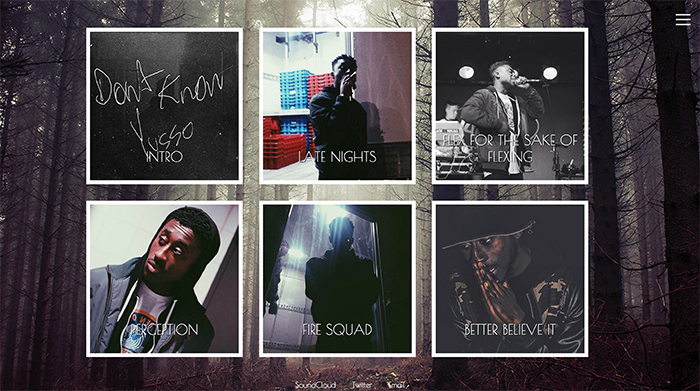
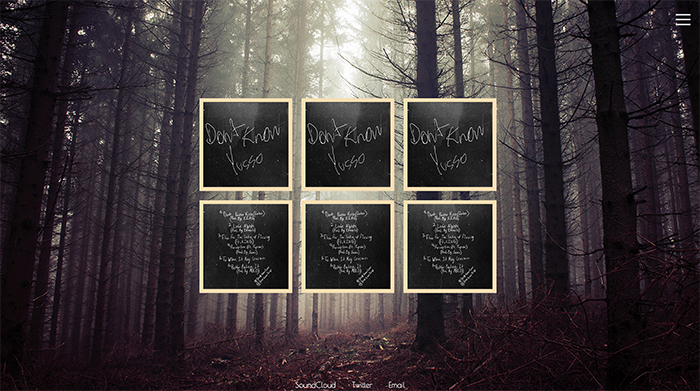
added requested updates

diff --git a/app/assets/javascripts/application.js b/app/assets/javascripts/application.js
@@ -19,7 +19,6 @@
 
 $(document).on('page:change', function(){
 
-  $(".page-load-effect").hide();
   $(".page-load-effect").delay(500).fadeIn(500);
   $("input#show_location").geocomplete();
 	start(); 
@@ -99,28 +98,20 @@ function start(){
 function homePage(){
 
 	// Fade in effect on landing page text
-	$("div#thebasis-container #yussotext, #doyouknow").hide();
-	$("#doyouknow").delay(1500).fadeIn(1000);
+	$("#doyouknow").delay(100).fadeIn(1000);
 	$("#doyouknow").delay(1000).fadeOut(500);
-	$("div#thebasis-container #yussotext").delay(5000).fadeIn(1500);
-
-	// Hide the home page music video 
-	$("#featuredvid, .close").hide();
+	$("div#thebasis-container #yussotext").delay(3500).fadeIn(1000);
 
 	// Fade in the home page music video when clicked
 	$("#watchvid").click(function(){
-		$(".close").css({ 'left' : (($(window).width() - $("#featuredvid").width())/2) });
-		$(".close").css({ 'top' : (($(window).height() - $("#featuredvid").height())/2) });
-		$("#featuredvid").fadeIn(500);
-		$(".close").show();
-		$("#featuredvid").get(0).play();
-		$("#bgvideo").get(0).pause();
+		$("div.video-wrapper").fadeIn(500);
+		$("video#featuredvid").get(0).play();
+		$("video#bgvideo").get(0).pause();
 	});
 
 	// Close the home page music video when close button clicked
 	$(".close").click(function(){
-		$("#featuredvid").hide();
-		$(".close").hide();
+		$("div.video-wrapper").fadeOut(500);
 		$("#featuredvid").get(0).pause();
 		$("#bgvideo").get(0).play();
 	});

diff --git a/app/assets/stylesheets/thebasis.scss b/app/assets/stylesheets/thebasis.scss
@@ -1,26 +1,5 @@
 @import "lib";
 
-/* LOADING SCREEN */
-
-div#loading-screen{
-	height: 100vh;
-	width: 100vw;
-	z-index: 10;
-	background-color: #fffaf0;
-	position: fixed;
-
-	& div{
-		@include center;
-		font: 400 15vw 'Source Code Pro', sans-serif;
-		background-color: #aaa;
-		color: #fffaf0;
-		width: 75vw;
-		height: 40vh;
-		line-height: 40vh;
-		text-align: center;
-	}
-}
-
 /* LANDING PAGE */
 
 div#thebasis-container{
@@ -29,6 +8,7 @@ div#thebasis-container{
 }
 
 div#yussotext{
+	display: none;
 	font: 300 10rem 'Source Code Pro', sans-serif;
 	width: 100vw;
 	color: #fffaf0;
@@ -37,6 +17,7 @@ div#yussotext{
 }
 
 div#doyouknow{
+	display: none;
 	color: #fffaf0;
 	font: 300 4em 'Open Sans', sans-serif;
 	text-align: center;
@@ -80,14 +61,27 @@ div#watchvid{
 	}
 }
 
-video#featuredvid{
+div.video-wrapper{
+	display: none;
 	@include center;
+	width: 40rem;
+	height: calc( ((40rem)/16) * 9);
+	border: 1px solid #fff;
+}
+
+video#featuredvid{
+	position: absolute;
+	top: 0;
+	right: 0;
+	height: 100%;
 	display: block;
-	height: 50vh;
-	border: 1px solid #fffaf0;
+	width: 100%;
 }
 
 div.close{
+	position: absolute;
+	top: 1rem;
+	right: 1rem;
 	letter-spacing: 2px;
 	font: 300 1em 'Open Sans', sans-serif;
 	color:#fffaf0;

diff --git a/app/assets/stylesheets/theart.scss b/app/assets/stylesheets/theart.scss
@@ -16,15 +16,16 @@ img#music{
 }
 
 section#music{
-  @include outer-container(70rem);
-  padding-top: 5vh;
+  @include outer-container(40rem);
+  height: calc(40rem * (420/640));
+  @include center-vertically;
 }
 
 .music-container{
   @include span-columns(4, 3);
   margin: 1.5%;
   display: inline-block;
-  border: 0.5rem solid #fff;
+  border: 0.5rem solid #f5deb3;
   position: relative;
 
   img.cover-art{
@@ -33,15 +34,15 @@ section#music{
   }
 
   &:after{
+  	display: none;
 		position: absolute;
 		bottom: 2rem;left: 0; right: 0;
 		text-align: center;
-		color: #fff;
+		color: #ee82ee;
 		text-transform: uppercase;
 		font-family: 'Poiret One', cursive;
 		font-size: 2vw;
 		content: attr(data-song-caption);
-		text-shadow: 1px 1px #000;
   }
 
   img.playbutton, img.pausebutton{

diff --git a/app/assets/stylesheets/loading-screen.scss b/app/assets/stylesheets/loading-screen.scss
@@ -1,3 +1,30 @@
+@import "lib";
+
+/* LOADING SCREEN */
+
+div#loading-screen{
+  height: 100vh;
+  width: 100vw;
+  z-index: 10;
+  background-color: #fffaf0;
+  position: fixed;
+
+  & div{
+    @include center;
+    font: 400 15vw 'Source Code Pro', sans-serif;
+    background-color: #aaa;
+    color: #fffaf0;
+    width: 75vw;
+    height: 40vh;
+    line-height: 40vh;
+    text-align: center;
+  }
+}
+
+.page-load-effect{
+  display: none;
+}
+
 .pace {
   -webkit-pointer-events: none;
   pointer-events: none;

diff --git a/app/assets/stylesheets/application.scss b/app/assets/stylesheets/application.scss
@@ -124,10 +124,5 @@ div#scroll{
 
 }
 
-html.turbolinks-progress-bar::before {
-  background-color: red !important;
-  height: 5px !important;
-}
-
 
 

diff --git a/app/assets/stylesheets/layout.scss b/app/assets/stylesheets/layout.scss
@@ -2,8 +2,6 @@
 
 /* HEADER */
 
-$window-dimension: 16/9 !global;
-
 div.grid{
 	@include outer-container(70rem);
 	@include center-vertically;

diff --git a/app/controllers/thescriptures_controller.rb b/app/controllers/thescriptures_controller.rb
@@ -10,11 +10,11 @@ class ThescripturesController < ApplicationController
 	def theart
 		@music = [
 			{ "name" => "Intro", "song" => "intro.mp3", "image" => "dky.jpg" },
-			{ "name" => "Late Nights", "song" => "latenights.mp3", "image" => "ebensmoking.jpg" },
-			{ "name" => "Flex For The Sake Of Flexing", "song" => "flex.mp3", "image" => "flexing.jpg" },
-			{ "name" => "Perception", "song" => "perception.mp3", "image" => "perception.jpg" },
-			{ "name" => "Fire Squad", "song" => "firesquad.mp3", "image" => "darkness.jpg" },
-			{ "name" => "Better Believe It", "song" => "betterbelieveit.mp3", "image" => "bbi.jpg" }
+			{ "name" => "Late Nights", "song" => "latenights.mp3", "image" => "dky.jpg" },
+			{ "name" => "Flex For The Sake Of Flexing", "song" => "flex.mp3", "image" => "dky.jpg" },
+			{ "name" => "Perception", "song" => "perception.mp3", "image" => "back-cover.jpg" },
+			{ "name" => "Fire Squad", "song" => "firesquad.mp3", "image" => "back-cover.jpg" },
+			{ "name" => "Better Believe It", "song" => "betterbelieveit.mp3", "image" => "back-cover.jpg" }
 		]
 	end
 
